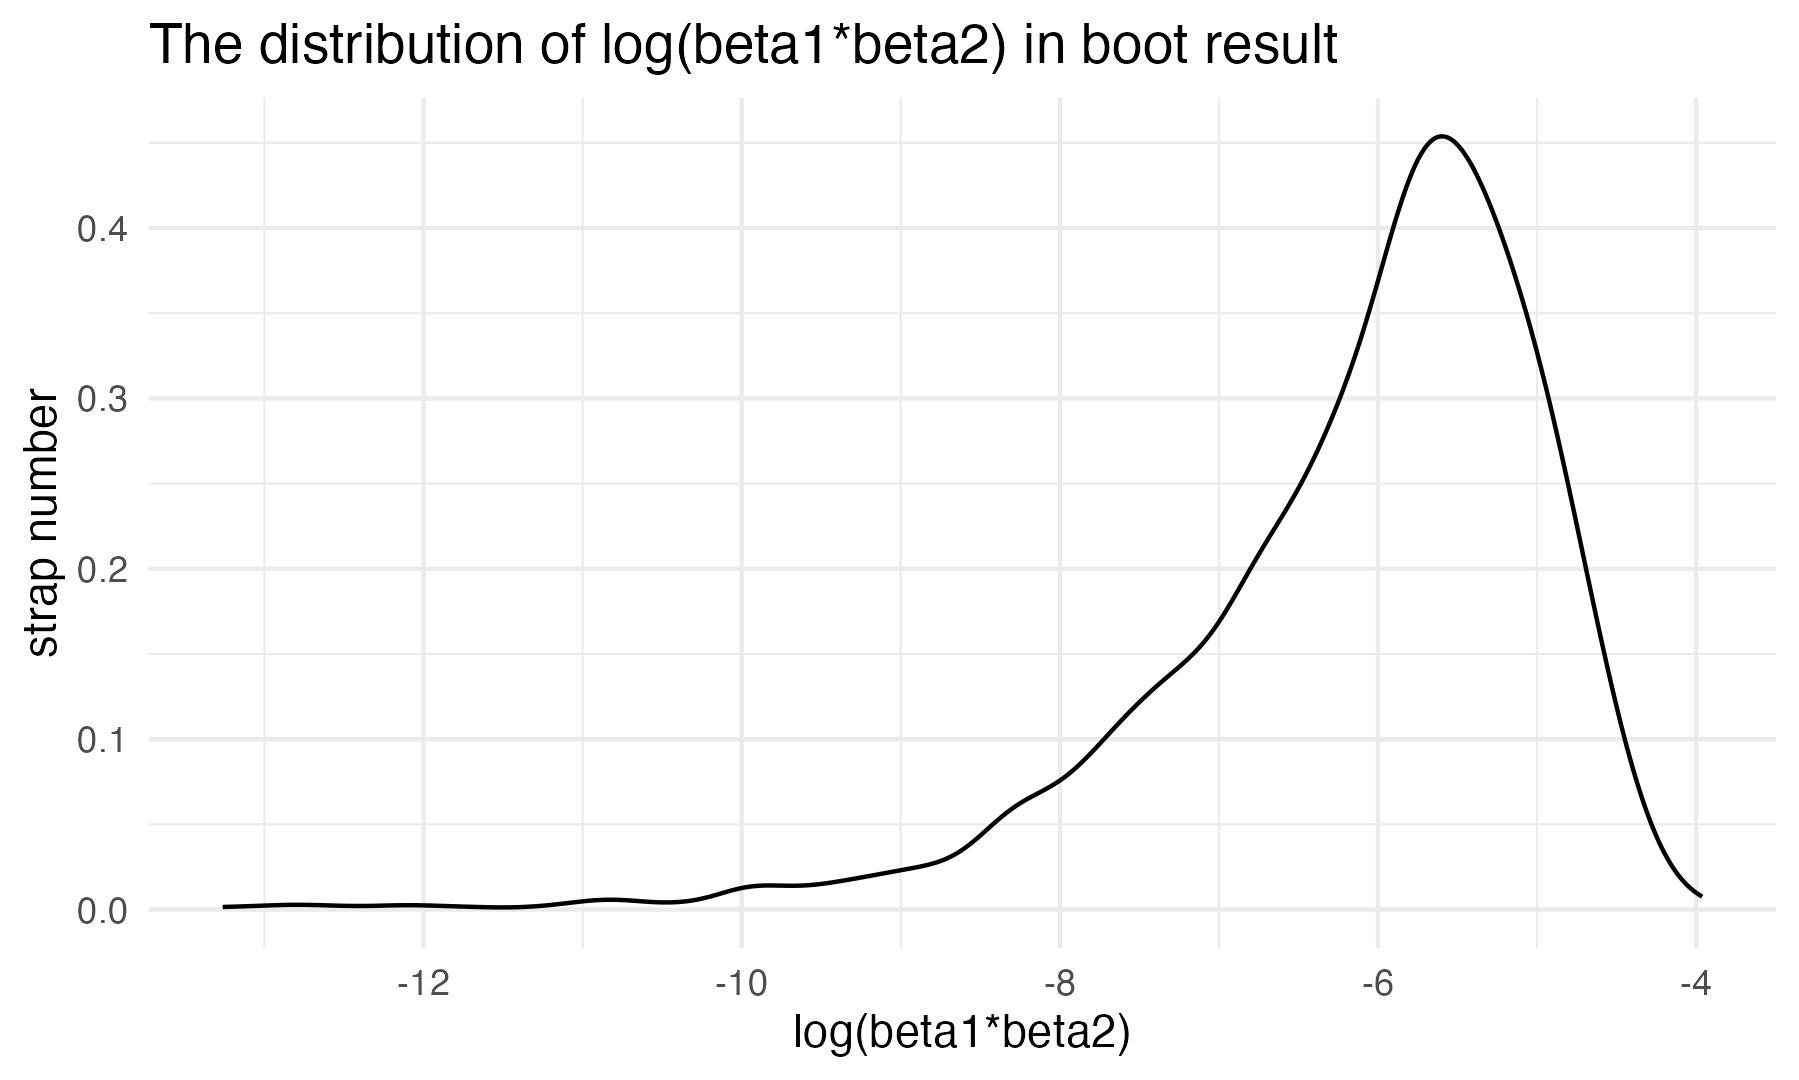
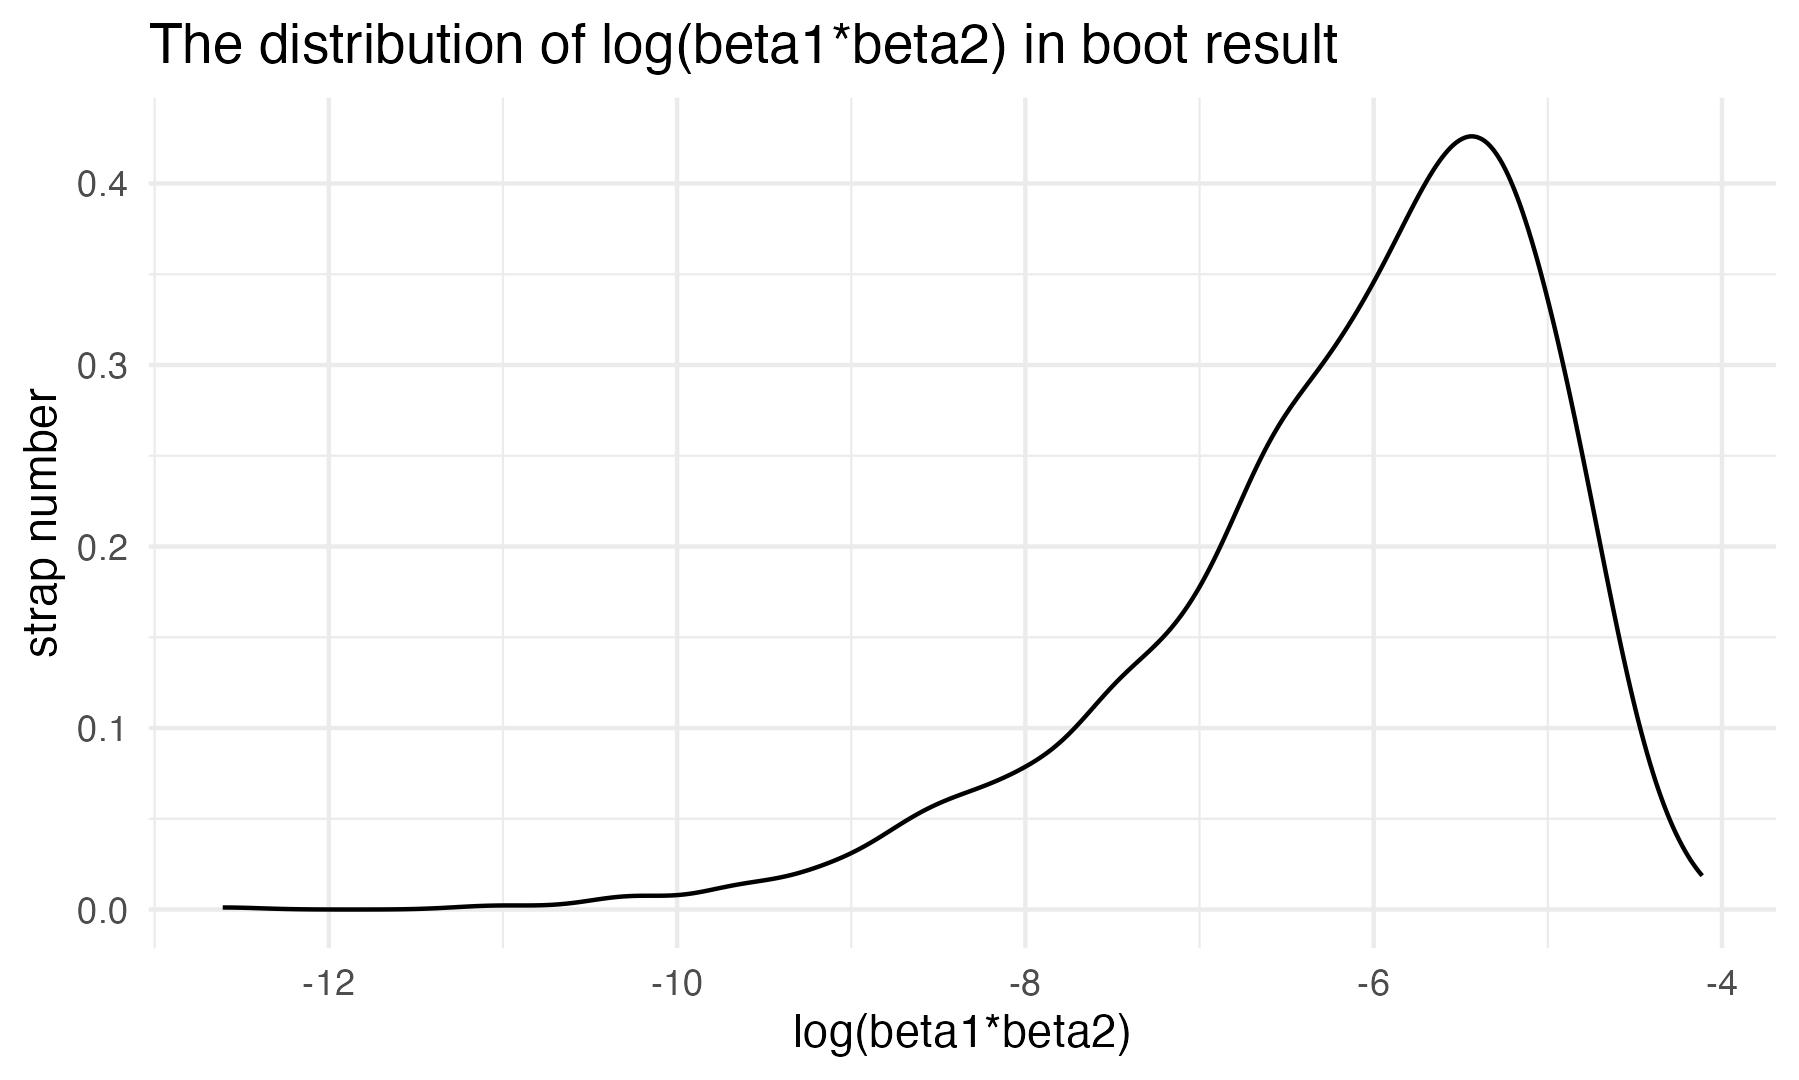
add variable selection and word description for problem 3

diff --git a/p8105_hw6_zl2746.md b/p8105_hw6_zl2746.md
@@ -220,18 +220,18 @@ boot_results2
 ```
 
     ## # A tibble: 5,000 × 6
-    ##    strap_number r_squared `(Intercept)`  tmin      prcp log_beta
-    ##           <int>     <dbl>         <dbl> <dbl>     <dbl>    <dbl>
-    ##  1            1     0.905          8.01 1.02  -0.00372    NaN   
-    ##  2            2     0.936          7.74 1.05  -0.00793    NaN   
-    ##  3            3     0.911          8.02 0.998  0.00506     -5.29
-    ##  4            4     0.898          8.33 0.987 -0.000612   NaN   
-    ##  5            5     0.905          8.49 0.976  0.000237    -8.37
-    ##  6            6     0.897          8.35 0.999  0.000600    -7.42
-    ##  7            7     0.909          8.28 1.01  -0.00197    NaN   
-    ##  8            8     0.888          8.17 0.975  0.00774     -4.89
-    ##  9            9     0.906          8.15 1.01   0.00519     -5.25
-    ## 10           10     0.932          8.18 1.03  -0.00663    NaN   
+    ##    strap_number r_squared `(Intercept)`  tmin       prcp log_beta
+    ##           <int>     <dbl>         <dbl> <dbl>      <dbl>    <dbl>
+    ##  1            1     0.903          8.14 0.994 -0.0000562   NaN   
+    ##  2            2     0.913          8.12 1.00   0.00334      -5.70
+    ##  3            3     0.929          8.00 1.04  -0.00615     NaN   
+    ##  4            4     0.915          7.93 1.02  -0.00271     NaN   
+    ##  5            5     0.926          7.49 1.04  -0.00250     NaN   
+    ##  6            6     0.924          8.14 1.03  -0.00752     NaN   
+    ##  7            7     0.917          7.70 1.03   0.00301      -5.78
+    ##  8            8     0.917          8.57 0.998 -0.00769     NaN   
+    ##  9            9     0.927          7.96 1.04  -0.00483     NaN   
+    ## 10           10     0.918          8.12 1.00   0.00819      -4.80
     ## # ℹ 4,990 more rows
 
 ``` r
@@ -244,7 +244,7 @@ boot_results2 |>
   ggtitle("The distribution of tmin in boot result")
 ```
 
-<img src="p8105_hw6_zl2746_files/figure-gfm/unnamed-chunk-3-1.png" width="90%" />
+<img src="p8105_hw6_zl2746_files/figure-gfm/q2 bootstrap-1.png" width="90%" />
 
 ``` r
 ggsave("The distribution of tmin in boot result for problem 2.jpg")
@@ -262,7 +262,7 @@ boot_results2 |>
   ggtitle("The distribution of prcp in boot result")
 ```
 
-<img src="p8105_hw6_zl2746_files/figure-gfm/unnamed-chunk-3-2.png" width="90%" />
+<img src="p8105_hw6_zl2746_files/figure-gfm/q2 bootstrap-2.png" width="90%" />
 
 ``` r
 ggsave("The distribution of prcp in boot result for problem 2.jpg")
@@ -280,7 +280,7 @@ boot_results2 |>
   ggtitle("The distribution of log(beta1*beta2) in boot result")
 ```
 
-<img src="p8105_hw6_zl2746_files/figure-gfm/unnamed-chunk-3-3.png" width="90%" />
+<img src="p8105_hw6_zl2746_files/figure-gfm/q2 bootstrap-3.png" width="90%" />
 
 ``` r
 ggsave("The distribution of log(beta1*beta2) in boot result for problem 2.jpg")
@@ -298,7 +298,7 @@ boot_results2 |>
   ggtitle("The distribution of R squared in boot result")
 ```
 
-<img src="p8105_hw6_zl2746_files/figure-gfm/unnamed-chunk-3-4.png" width="90%" />
+<img src="p8105_hw6_zl2746_files/figure-gfm/q2 bootstrap-4.png" width="90%" />
 
 ``` r
 ggsave("The distribution of R squared in boot result for problem 2.jpg")
@@ -340,7 +340,7 @@ fraction = nrow(valid_log)/5000
 fraction
 ```
 
-    ## [1] 0.3356
+    ## [1] 0.3234
 
 ``` r
 # construct a CI for log(beta1*beta2)
@@ -355,7 +355,7 @@ boot_results2 |>
     ## # A tibble: 1 × 2
     ##   ci_lower ci_upper
     ##      <dbl>    <dbl>
-    ## 1    -9.10    -4.57
+    ## 1    -8.88    -4.62
 
 ``` r
 # construct a CI for r squared
@@ -369,9 +369,9 @@ boot_results2 |>
     ## # A tibble: 1 × 2
     ##   ci_lower ci_upper
     ##      <dbl>    <dbl>
-    ## 1    0.888    0.941
+    ## 1    0.889    0.940
 
-**There is only 0.3356 of dataset can be used for log(beta1 \* beta2).**
+**There is only 0.3234 of dataset can be used for log(beta1 \* beta2).**
 
 ## Problem 3
 
@@ -408,48 +408,107 @@ this plot.
 
 ``` r
 # Propose a regression model for birthweight
-model <- lm(bwt ~ gaweeks + ppbmi + blength + bhead + smoken + wtgain + babysex + frace + mrace, 
-            data = birthweight)
+model <- lm(bwt ~ ., data = birthweight)
 summary(model)
 ```
 
     ## 
     ## Call:
-    ## lm(formula = bwt ~ gaweeks + ppbmi + blength + bhead + smoken + 
-    ##     wtgain + babysex + frace + mrace, data = birthweight)
+    ## lm(formula = bwt ~ ., data = birthweight)
     ## 
     ## Residuals:
     ##      Min       1Q   Median       3Q      Max 
-    ## -1078.62  -186.86    -4.04   178.99  2394.57 
+    ## -1097.68  -184.86    -3.33   173.09  2344.15 
     ## 
-    ## Coefficients:
+    ## Coefficients: (3 not defined because of singularities)
     ##                     Estimate Std. Error t value Pr(>|t|)    
-    ## (Intercept)       -5807.0967   107.5992 -53.970  < 2e-16 ***
-    ## gaweeks              11.2032     1.4677   7.633 2.80e-14 ***
-    ## ppbmi                 7.0895     1.3396   5.292 1.27e-07 ***
-    ## blength              76.4581     2.0204  37.844  < 2e-16 ***
-    ## bhead               132.2350     3.4683  38.126  < 2e-16 ***
-    ## smoken               -4.6531     0.5896  -7.892 3.75e-15 ***
-    ## wtgain                4.0902     0.3949  10.357  < 2e-16 ***
-    ## babysexmale         -31.6289     8.5081  -3.717 0.000204 ***
-    ## fraceBlack           -2.9663    79.3153  -0.037 0.970169    
-    ## fraceOther          -34.7011    98.1790  -0.353 0.723771    
-    ## fracePuerto Rican   -73.1480    78.9930  -0.926 0.354494    
-    ## fraceWhite          -21.3772    69.7263  -0.307 0.759172    
-    ## mraceBlack          -52.3828    81.3015  -0.644 0.519413    
-    ## mracePuerto Rican    22.3725    81.3107   0.275 0.783215    
-    ## mraceWhite          113.7748    72.2367   1.575 0.115323    
+    ## (Intercept)       -6306.8346   659.2640  -9.566  < 2e-16 ***
+    ## babysexmale         -28.7073     8.4652  -3.391 0.000702 ***
+    ## bhead               130.7781     3.4523  37.881  < 2e-16 ***
+    ## blength              74.9536     2.0217  37.075  < 2e-16 ***
+    ## delwt                 4.1007     0.3948  10.386  < 2e-16 ***
+    ## fincome               0.2898     0.1795   1.614 0.106551    
+    ## fraceBlack           -6.9048    78.8349  -0.088 0.930210    
+    ## fraceOther          -16.9392    97.5932  -0.174 0.862212    
+    ## fracePuerto Rican   -68.2323    78.4692  -0.870 0.384599    
+    ## fraceWhite          -21.2361    69.2960  -0.306 0.759273    
+    ## gaweeks              11.5494     1.4654   7.882 4.06e-15 ***
+    ## malformpresent        9.7650    70.6259   0.138 0.890039    
+    ## menarche             -3.5508     2.8951  -1.226 0.220083    
+    ## mheight               9.7874    10.3116   0.949 0.342588    
+    ## momage                0.7593     1.2221   0.621 0.534418    
+    ## mraceBlack          -60.0488    80.9532  -0.742 0.458266    
+    ## mracePuerto Rican    34.9079    80.9481   0.431 0.666317    
+    ## mraceWhite           91.3866    71.9190   1.271 0.203908    
+    ## parity               95.5411    40.4793   2.360 0.018307 *  
+    ## pnumlbw                   NA         NA      NA       NA    
+    ## pnumsga                   NA         NA      NA       NA    
+    ## ppbmi                 4.3538    14.8913   0.292 0.770017    
+    ## ppwt                 -3.4716     2.6121  -1.329 0.183913    
+    ## smoken               -4.8544     0.5871  -8.269  < 2e-16 ***
+    ## wtgain                    NA         NA      NA       NA    
     ## ---
     ## Signif. codes:  0 '***' 0.001 '**' 0.01 '*' 0.05 '.' 0.1 ' ' 1
     ## 
-    ## Residual standard error: 274.4 on 4327 degrees of freedom
-    ## Multiple R-squared:  0.7139, Adjusted R-squared:  0.713 
-    ## F-statistic: 771.2 on 14 and 4327 DF,  p-value: < 2.2e-16
+    ## Residual standard error: 272.5 on 4320 degrees of freedom
+    ## Multiple R-squared:  0.7183, Adjusted R-squared:  0.717 
+    ## F-statistic: 524.6 on 21 and 4320 DF,  p-value: < 2.2e-16
+
+``` r
+# variable selection
+model |>
+  broom::tidy() |>
+  filter(p.value < 0.05)
+```
+
+    ## # A tibble: 8 × 5
+    ##   term        estimate std.error statistic   p.value
+    ##   <chr>          <dbl>     <dbl>     <dbl>     <dbl>
+    ## 1 (Intercept) -6307.     659.        -9.57 1.80e- 21
+    ## 2 babysexmale   -28.7      8.47      -3.39 7.02e-  4
+    ## 3 bhead         131.       3.45      37.9  2.16e-271
+    ## 4 blength        75.0      2.02      37.1  1.75e-261
+    ## 5 delwt           4.10     0.395     10.4  5.62e- 25
+    ## 6 gaweeks        11.5      1.47       7.88 4.06e- 15
+    ## 7 parity         95.5     40.5        2.36 1.83e-  2
+    ## 8 smoken         -4.85     0.587     -8.27 1.78e- 16
+
+``` r
+model1 = lm(bwt ~ gaweeks + ppbmi + blength + bhead + smoken + wtgain + babysex, 
+            data = birthweight)
+summary(model1)
+```
+
+    ## 
+    ## Call:
+    ## lm(formula = bwt ~ gaweeks + ppbmi + blength + bhead + smoken + 
+    ##     wtgain + babysex, data = birthweight)
+    ## 
+    ## Residuals:
+    ##      Min       1Q   Median       3Q      Max 
+    ## -1091.57  -187.52    -8.63   174.13  2566.93 
+    ## 
+    ## Coefficients:
+    ##               Estimate Std. Error t value Pr(>|t|)    
+    ## (Intercept) -6173.4659    98.5684 -62.631  < 2e-16 ***
+    ## gaweeks        13.5098     1.5040   8.983  < 2e-16 ***
+    ## ppbmi           5.1251     1.3654   3.754 0.000177 ***
+    ## blength        79.5299     2.0705  38.410  < 2e-16 ***
+    ## bhead         137.6129     3.5433  38.838  < 2e-16 ***
+    ## smoken         -1.9977     0.5827  -3.428 0.000613 ***
+    ## wtgain          3.7204     0.4054   9.177  < 2e-16 ***
+    ## babysexmale   -32.4025     8.7512  -3.703 0.000216 ***
+    ## ---
+    ## Signif. codes:  0 '***' 0.001 '**' 0.01 '*' 0.05 '.' 0.1 ' ' 1
+    ## 
+    ## Residual standard error: 282.6 on 4334 degrees of freedom
+    ## Multiple R-squared:  0.6961, Adjusted R-squared:  0.6956 
+    ## F-statistic:  1418 on 7 and 4334 DF,  p-value: < 2.2e-16
 
 ``` r
 birthweight_df <- birthweight |> 
-  add_predictions(model) |> 
-  add_residuals(model)
+  add_predictions(model1) |> 
+  add_residuals(model1)
 
 # Plotting residuals against fitted values
 ggplot(birthweight_df, aes(x = pred, y = resid)) + 
@@ -459,7 +518,7 @@ ggplot(birthweight_df, aes(x = pred, y = resid)) +
   ylab("Residuals")
 ```
 
-<img src="p8105_hw6_zl2746_files/figure-gfm/unnamed-chunk-6-1.png" width="90%" />
+<img src="p8105_hw6_zl2746_files/figure-gfm/q3 model1-1.png" width="90%" />
 
 - One using length at birth and gestational age as predictors (main
   effects only)
@@ -583,10 +642,10 @@ test
 
 ``` r
 # RMSE on Training and Testing Data
-rmse_train1 = rmse(model, train)
+rmse_train1 = rmse(model1, train)
 rmse_train2 = rmse(model2, train)
 rmse_train3 = rmse(model3, train)
-rmse_test1 = rmse(model, test)
+rmse_test1 = rmse(model1, test)
 rmse_test2 = rmse(model2, test)
 rmse_test3 = rmse(model3, test)
 
@@ -594,7 +653,7 @@ rmse_test3 = rmse(model3, test)
 rmse_train1; rmse_train2; rmse_train3;
 ```
 
-    ## [1] 234.3313
+    ## [1] 240.5241
 
     ## [1] 298.5854
 
@@ -604,7 +663,7 @@ rmse_train1; rmse_train2; rmse_train3;
 rmse_test1; rmse_test2; rmse_test3
 ```
 
-    ## [1] 274.6041
+    ## [1] 283.0185
 
     ## [1] 333.716
 
@@ -645,11 +704,9 @@ cv_df |> pull(train) |> nth(3) |> as_tibble()
 cv_results =
   cv_df |> 
   mutate(
-    model1 = map(train, \(df) lm(bwt ~ gaweeks + ppbmi + blength + bhead + smoken + wtgain + babysex + frace + mrace, 
-            data = birthweight)),
-    model2 = map(train, \(df) lm(bwt ~ gaweeks + blength, data = birthweight)),
-    model3 = map(train, \(df) lm(bwt ~ bhead + blength + babysex + bhead * blength + bhead * babysex + blength * babysex, 
-             data = birthweight))
+    model1 = map(train, \(df) model1),
+    model2 = map(train, \(df) model2),
+    model3 = map(train, \(df) model3)
   ) |> 
   mutate(
     rmse_model1 = map2_dbl(model1, test, \(mod, df) rmse(mod, df)),
@@ -672,7 +729,7 @@ cv_results |>
     ## # A tibble: 3 × 2
     ##   model_type m_rmse
     ##   <chr>       <dbl>
-    ## 1 model1       274.
+    ## 1 model1       282.
     ## 2 model2       331.
     ## 3 model3       287.
 
@@ -689,4 +746,18 @@ cv_results |>
   geom_violin()
 ```
 
-<img src="p8105_hw6_zl2746_files/figure-gfm/unnamed-chunk-10-1.png" width="90%" />
+<img src="p8105_hw6_zl2746_files/figure-gfm/modelr cv-1.png" width="90%" />
+
+``` r
+ggsave("Violin distribution of rmse for 3 models.jpg")
+```
+
+    ## Saving 6 x 3.6 in image
+
+**The violin plot illustrates the distribution of root mean square error
+(RMSE) for three predictive models. Model 1’s RMSE distribution is
+narrow and concentrated, indicating consistent performance with lower
+errors. Model 2 shows bimodal distribution, suggesting more variability
+and higher errors. Model 3 presents a similar distribution with model1
+but slightly narrower and higher RMSE. As a result, Model 1 is the most
+reliable predictions with the smallest errors.**
